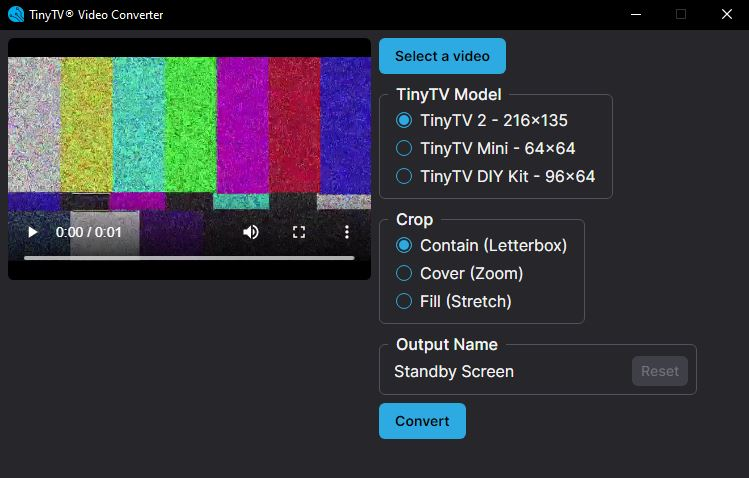
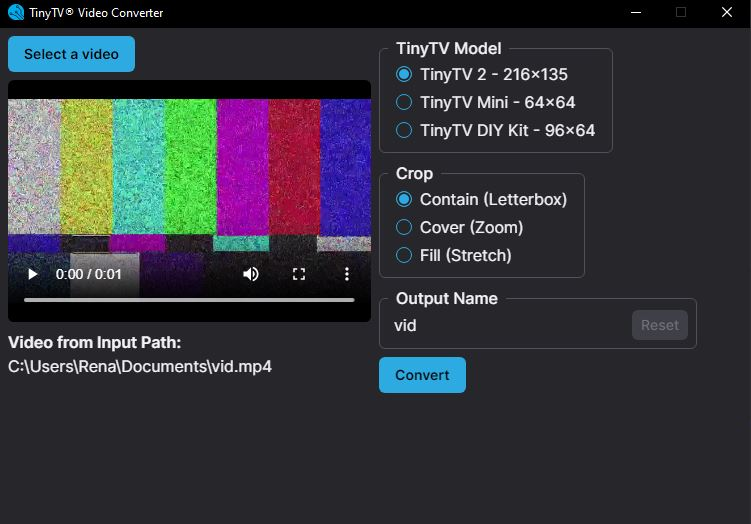
add application updates

diff --git a/docs/TinyTV-Converter-App.md b/docs/TinyTV-Converter-App.md
@@ -11,33 +11,25 @@ hide:
 </center>
 
 
-_Note: If you are looking to convert videos to load onto the <a href="https://tinycircuits.com/products/tinytv-diy-kit" target="_blank" alt="TinyTV Kit product page">**TinyTV DIY Kit**</a>, <a href="https://tinycircuits.com/products/tinyarcade" target="_blank" alt="Tiny Arcade Kit product page">**Tiny Arcade**</a> or <a href="https://tinycircuits.com/products/pocket-arcade" target="_blank" alt="Pocket Arcade Kit product page">**Pocket Arcade**</a>, please refer to the <a href="https://learn.tinycircuits.com/Kits/TSV-Converter-Tutorial/" target="_blank" alt="TinyCircuits TSV Converter tutorial">**TSV Converter**</a> application tutorial._
+_Note: If you are looking to convert videos to load onto the <a href="https://tinycircuits.com/products/tinytv-diy-kit" target="_blank" alt="TinyTV Kit product page">**TinyTV DIY Kit (shipped before Summer 2023)**</a>, <a href="https://tinycircuits.com/products/tinyarcade" target="_blank" alt="Tiny Arcade Kit product page">**Tiny Arcade**</a> or <a href="https://tinycircuits.com/products/pocket-arcade" target="_blank" alt="Pocket Arcade Kit product page">**Pocket Arcade**</a>, please refer to the <a href="../TinyTV-DIY-Kit/TSV-Converter-Tutorial/" target="_blank" alt="TinyCircuits TSV Converter tutorial">**TSV Converter**</a> application tutorial._
 
 The TinyTV Converter App is used to convert and crop videos for TinyCircuits TinyTV devices. Our TinyTVs are small and require specific video formats, so you will need to convert all videos you want on your TinyTV using the App from this tutorial.
 
+Jump to: 
 
-<center><img style="border:1px solid black;" width="60%" height="60%" src="../images/Converter-light-mode.JPG" /></center>
-
+* [**Windows Instructions**](#windows-instructions)
+* [**MacOS Instructions (Intel/Silicon)**](#macos-instructions-intelsilicon)
 
 ---
 
-## Downloading
+## Windows Instructions
+
 
 Press a compatible download link for your system:
 
-- <a href="https://files.tinycircuits.com/TinyTV%20Video%20Converter_0.1.1_x64_en-US.msi" download target="_blank" alt="Windows 64 bit Installer">**Windows 64 bit**</a>
-- <a href="https://files.tinycircuits.com/TinyTV%20Video%20Converter_0.1.1_x86_en-US.msi" download target="_blank" alt="Windows 32 bit Installer">**Windows 32 bit**</a>
-- <a href="https://files.tinycircuits.com/TinyTV%20Video%20Converter_0.1.1_x64.dmg" download target="_blank" alt="Mac Intel Installer">**MacOS**</a> _(Note: You must have MacOS version 10.13 or above to use this App. If you are unable to update, the <a href="https://learn.tinycircuits.com/Kits/TSV-Converter-Tutorial/" target="_blank" alt="TinyCircuits TSV Converter tutorial">**TSV Converter**</a> application may be compatible with your system to convert videos for the <a href="https://tinycircuits.com/products/tinytv-diy-kit" target="_blank" alt="TinyTV Kit product page">**TinyTV DIY Kit**</a>, <a href="https://tinycircuits.com/products/tinyarcade" target="_blank" alt="Tiny Arcade Kit product page">**Tiny Arcade**</a> and <a href="https://tinycircuits.com/products/pocket-arcade" target="_blank" alt="Pocket Arcade Kit product page">**Pocket Arcade**</a>.)_
 
-TinyTV Converter App version history:
-
-* Current: v0.1.1 - Updated to include support for TinyTV DIY Kit .avi conversion, TV Option renamed 
-  * Updated the application name to reflect trademark protection.
-  * Updated terminology to TV 'Model' instead of TV 'Option'.
-  * TinyTV name labels updated/fixed.
-  * TinyTV 2 is now the default selected option. 
-  * Removed empty space in app to make 
-* v0.1.0 - Initial version
+- <a href="https://files.tinycircuits.com/TinyTV%20Video%20Converter_0.1.2_x64_en-US.msi" download target="_blank" alt="Windows 64 bit Installer">**Windows 64 bit Download**</a>
+- <a href="https://files.tinycircuits.com/TinyTV%20Video%20Converter_0.1.2_x86_en-US.msi" download target="_blank" alt="Windows 32 bit Installer">**Windows 32 bit Download**</a>
 
 Not sure what download link works best for your Windows device? Try these steps:
 
@@ -53,23 +45,57 @@ To download the TinyTV Converter Application, it may help to use Google Chrome. 
 <center><img width="75%" height="75%" src="https://github.com/TinyCircuits/Wiki-Tutorials-Supporting-Files/raw/master/Utilities/TinyTV-App/Chrome-download-message.jpg" /></center>
 <center>_Screen capture of the 'Keep' option highlighted_</center>
 
-You will be prompted to agree to the license coupled with the software and then your computer should generate the application file. Windows users can move on to the <a href="/TinyTV-Converter-App/#open-the-app" alt="Open the app section of the tutorial">**next section**</a>.
+You will be prompted to agree to the software license the application is written under, and to confirm that you wish to download the application. Then, your device should generate the application file.
 
-Mac users must add the TinyTV Converter Application to the list of accepted Apps by navigating to the Applications folder, finding the TinyTV app, and then right click to open the option menus and press "Open" - press "Open" again on the security window that pops up:
+---
 
-<center><img width="75%" height="75%" src="https://github.com/TinyCircuits/Wiki-Tutorials-Supporting-Files/raw/master/Utilities/TinyTV-App/Mac-double-open-menus.jpg"/></center>
+## MacOS Instructions (Intel/Silicon)
+
+- <a href="https://files.tinycircuits.com/TinyTV%20Video%20Converter_0.1.2_x64.dmg" download target="_blank" alt="Mac Intel Installer">**MacOS Download**</a> _(Note: You must have MacOS version 10.13 or above to use this App. If you are unable to update, the <a href="https://learn.tinycircuits.com/Kits/TSV-Converter-Tutorial/" target="_blank" alt="TinyCircuits TSV Converter tutorial">**TSV Converter**</a> application may be compatible with your system to convert videos for the <a href="https://tinycircuits.com/products/tinytv-diy-kit" target="_blank" alt="TinyTV Kit product page">**TinyTV DIY Kit**</a>, <a href="https://tinycircuits.com/products/tinyarcade" target="_blank" alt="Tiny Arcade Kit product page">**Tiny Arcade**</a> and <a href="https://tinycircuits.com/products/pocket-arcade" target="_blank" alt="Pocket Arcade Kit product page">**Pocket Arcade**</a>.)_
+
+
+To download the TinyTV Converter Application, it may help to use Google Chrome. Press the above download link, choose a location for the installer file, and then select 'Keep' from the option arrow found on the chrome download pop-up at the bottom of your browser window:
+
+<center><img width="75%" height="75%" src="https://github.com/TinyCircuits/Wiki-Tutorials-Supporting-Files/raw/master/Utilities/TinyTV-App/Chrome-download-message.jpg" /></center>
 <center>_Screen capture of the 'Keep' option highlighted_</center>
+
+You will be prompted to agree to the software license the application is written under, and to confirm that you wish to download the application. Then, your device should generate the application file.
+
+<center>
+<img width="75%" height="75%" src="../images/Mac-License-Agreement.jpg" alt="TinyTV application license window screenshot" />
+</center>
+<center>*License Agreement Window*</center>
+
+
+---
+
+### Mac (M1 and M2) Accessory Approval
+
+The silicon processors available in MacOS devices starting in November 2020 have an additional USB device security protocol that you must accept when connecting your TinyTV in order to place converted videos into the TinyTV's memory. When plugging in a USB device, you may see this pop-up window:
+
+<center><img width="40%" height="40%" src="../images/Mac-USB-Accessory.png"/></center>
+<center>_Screen capture of the 'Open' option highlighted_</center>
+
+
+Please review <a href="https://support.apple.com/lt-lt/guide/mac-help/mchlf779ae93/mac" target="_blank" alt="">**Mac's publication on allowing accessories to connect to Mac**</a> to learn how to approve USB device accessories.
+
+
 
 ---
 
 ## Open the Application
+
+Once you have downloaded the correct application version for your system, you can start converting videos!
 
 <center><img width="60%" height="60%" src="../images/Converter-dark-opening-button.JPG" /></center>
 <center>_Note: The application is available in light and dark mode and will be set automatically based on your system settings. Shown here is the dark mode version of the app._</center>
 
 Press the button to select a video you wish to convert.
 
-Once you have selected the video file you want to convert to put on the TV, the app will open to the main screen. On the left side of the app, the video you selected is playable and viewable - note that this feature is not available for all video types or video ratios. For best compatibility, use .mp4 type videos.
+Once you have selected the video file you want to convert to put on the TV, the app will open to the main screen. On the left side of the app, the video you selected is playable and viewable - note that this feature is not available for all video types or video ratios, you will need your video to have an .MP4 extension to be compatible with the TinyTV application. If you have a video in a different format, you can use video editing software to export it as an .MP4, or you can use a free in-browser tool like <a href="https://cloudconvert.com/video-converter" alt="Cloud Convert browser tool for converting video types">**CloudConvert**</a>. Once you have an .MP4, you should be able to select it from the app!
+
+<center><img style="border:1px solid black;" width="60%" height="60%" src="../images/Converter-light-mode.JPG" /></center>
+<center>*Light Mode Version*</center>
 
 ---
 
@@ -85,24 +111,18 @@ Select the TinyTV Model compatible with your hardware. Please note that the vide
 
 To customize the appearance of your video, you can select any of the 3 crop options: Contain, Cover, or Fill. The selected crop option will change the appearance of the video player to depict the resulting video format.
 
-<center><img width="50%" height="50%" src="../images/Converter-Contain.JPG" /></center>
-<center>_Contain_</center>
+<center><img width="50%" height="50%" src="../images/Crop-settings.jpg" /></center>
+<center>_Contain, Cover, Fill_</center>
 
-<p></p>
+Keep in mind, the crop settings are applied based on the TV Model. For example, the crop setting *Fill (Stretch)* on the TinyTV Mini that has a 1:1 video ratio with 64x64 pixels will not display as stretched due to the size and video ratio limitations. To see how the input video will appear with the different crop settings, we recommend converting your video with the different crop settings so that you can see how they are affected. 
 
-<center><img width="50%" height="50%" src="../images/Converter-cover.JPG" /></center>
-<center>_Cover_</center>
-
-<p></p>
-
-<center><img width="50%" height="75%" src="../images/Converter-Fill.JPG" /></center>
-<center>_Fill_</center>
+*Note: The preview of the crop settings in the application window will give you an idea of how the different settings effect the resulting video, but the preview is an estimate rather than a guaranteed visual.*
 
 ---
 
 ## Output Name
 
-Choose a short and meaningful title for your TinyTV video. Note that special characters and titles longer than 50 characters are not compatible with the TV firmware. Remove any special characters in the title before placing the video on your TinyTV by sticking to a-b letters and 0-9 numbers.
+Choose a short and meaningful title for your TinyTV video. Note that special characters and titles longer than 50 characters are not compatible with the TV firmware. Remove any special characters in the title before placing the video on your TinyTV by sticking to a-z letters and 0-9 numbers.
 
 ---
 
@@ -110,28 +130,25 @@ Choose a short and meaningful title for your TinyTV video. Note that special cha
 
 Press the convert button once all of the above selections and title look good. A save dialog window will direct you to save your file.
 
-DIY TinyTV Kit 96x64:
+**DIY TinyTV Kit 96x64**:
 
 - Place converted videos on the USB Drive of the SD Card you have plugged into your computer. Eject the USB drive before removing it from your computer to avoid file corruption.
 
-TinyTV 2 and TinyTV Mini:
+**TinyTV 2 and TinyTV Mini**:
 
 -  These TinyTVs have a USB Mode that will make your TinyTV appear on your computer just like an external drive, either in your Folder Explorer (Windows) or on your desktop/Finder Application (Mac). You can select the TinyTV device directory when converting videos to save the videos directly to your TinyTV's storage. To enter USB Mode:
 
     - <ins>Current TinyTV Software</ins>: turn your TV on and connect it to your computer with a USB-C cable, after a few seconds the directory of the TinyTV should appear.
-    - <ins>Pre-Kickstarter TinyTV 2 Software (<a href="TODO" target="_blank" alt="TinyTV firmware updated tool">**Update Software Here**</a>)</ins>: Plug the TinyTV 2 into your computer. Turn off the TinyTV with the top power button while holding the button in for 5 seconds. After 5 seconds, release the button and then press it once. The USB drive will appear in your file explorer (Windows), or as a drive on your home screen (Mac):
+    - <ins>Do you have a TinyTV with different software?</ins> - <a href="https://tinytv.us/Update/" target="_blank" alt="TinyTV firmware updated tool">**Update Software Here**</a>
 
-You can plug the TV into your computer and you can save your converted videos directly to the USB Drive directory.
+You can plug the TV into your computer and you can save your converted videos directly to the USB Drive directory that will appear when the TinyTV is connected to your computer with a USB-C cable while powered on. 
 
-that will appear when the TinyTV is connected to your computer with a USB-C cable while powered on. 
-
-<center><img width="75%" height="75%" src="https://github.com/TinyCircuits/Wiki-Tutorials-Supporting-Files/raw/master/Utilities/TinyTV-App/App-main-screen-USB-drive-Mac.jpg" /></center>
-<center>_Your TinyTV USB drive may show up as "untitled"_</center>
+_Note: Your TinyTV USB drive may show up as "Untitled"_
 
 Don't forget to eject your TinyTV USB drive once you are done adding videos!
 
 <center><img width="50%" height="50%" src="https://github.com/TinyCircuits/Wiki-Tutorials-Supporting-Files/raw/master/Utilities/TinyTV-App/Mac-eject-USB.jpg" /></center>
-<center>_To eject the TinyTV USB drive, right click or double press to view the options menu and select the "Eject" option_</center>
+<center>_To eject the TinyTV USB drive on MacOS, right click or double press to view the options menu and select the "Eject" option_</center>
 
 ---
 
@@ -143,18 +160,31 @@ You can use a USB power cable to connect your TinyTV to your computer or another
 
 ## Troubleshooting
 
+- **"I'm getting an error on my Mac device about allowing the accessory to connect?"** - Please review the <a href="#mac-m1-and-m2-accessory-approval" alt="">**M1 and M2 Mac-users section**</a> to remedy the error.
 - **"My app appears frozen while I am converting a video"** - Don't worry, this is completely normal. Your video is being converted by the TinyTV app and while it may look like the app is frozen, it's just working hard!
 - If the TinyTV 2 or TinyTV Mini USB device does not appear on your computer - your USB-C cable may not have the necessary data connections required for transferring data. Try using other USB-C cables.
 - If you cannot see the resulting converted video, refresh your file explorer in the directory you saved the file. _Try pressing the convert button again if the video is not present._
 - Do not use the same title for converted videos repeatedly in the same file location. The file will not be overwritten correctly and only the first video with the title will be saved. Change the title each time you press the convert button to avoid errors or losing video data.
 
+
 ---
 
-<center>
-## Contact Us
-</center>
+## TinyTV Converter App version history:
 
-If you have any questions or feedback, feel free to email us or make a post on our <a href="http://forum.tinycircuits.com/index.php" target="_blank" alt="TinyCircuits Forum">**forum**</a>. Show us what you make by tagging @TinyCircuits on Instagram, Twitter, or Facebook so we can feature it.
+* v0.1.2 
+    * Added video file path for debugging. 
+    * Signed and notarized MacOS version of application to remove downloading issues.
+    * Moved 'Select a Video' button.
+* v0.1.1 
+    * Updated to include support for TinyTV DIY Kit .AVI conversion.
+    * Updated the application name to reflect trademark protection.
+    * Updated terminology to TV 'Model' instead of TV 'Option'.
+    * TinyTV name labels updated/fixed.
+    * TinyTV 2 is now the default selected option. 
+    * Removed empty space in app.
+* v0.1.0 Initial version with limited .TSV conversion functionality.
+
+---
 
 
 <center><p>Thanks for supporting TinyCircuits!</p></center>

diff --git a/docs/TinyTV-DIY-Kit/TSV-Converter-Tutorial.md b/docs/TinyTV-DIY-Kit/TSV-Converter-Tutorial.md
@@ -3,11 +3,11 @@
 
 <center><img width="50%" height="50%" src="https://github.com/TinyCircuits/Wiki-Tutorials-Supporting-Files/raw/master/Utilities/TSVConverter-Tutorial/images/TSVConverter-Tutorial-Image-01.jpg" /></center>
 
-.TSV (TinyScreen Video) is a file format used to play video on our TinyScreen products, including the TinyTV DIY Kit, our TinyScreen+, the Tiny Arcade, and Pocket Arcade. This page will cover how to use the Windows and MacOS program to convert any common video format to a .TSV file. It will also demonstrate how to play .TSV files on your TinyScreen+ with the <a href="https://tinycircuits.com/collections/memory/products/microsd-tinyshield" target="_blank" alt="micro SD TinyShield Product Page">**Micro SD TinyShield**</a>.
+.TSV (TinyScreen Video) is a file format used to play video on our TinyScreen products, including the TinyTV DIY Kit, our TinyScreen+, the Tiny Arcade, and Pocket Arcade. This page will cover how to use the Windows and MacOS program to convert a video file to a .TSV file. It will also demonstrate how to play .TSV files on your TinyScreen+ with the <a href="https://tinycircuits.com/collections/memory/products/microsd-tinyshield" target="_blank" alt="micro SD TinyShield Product Page">**Micro SD TinyShield**</a>.
 
 _For more information on how to load .TSV files to your Tiny Arcade, please refer to the <a href="https://learn.tinycircuits.com/Help/Load-Games-and-Video-to-SD-Tutorial/" target="_blank" alt="How to Load TinyArcade Games & Videos onto an SD Card Tutorial">**How to Load Tiny Arcade Games & Videos onto an SD Card**</a> tutorial._
 
-<center><a href="../../TinyTV-Converter-App/" alt="TinyTV Converter app tutorial and download page">_If you have a Kickstarter/Indiegogo TinyTV 2 or TinyTV Mini, please navigate to the  tutorial and download page for the TinyTV converter application that will be compatible with the new hardware._</a></center>
+<center><a href="../../TinyTV-Converter-App/" alt="TinyTV Converter app tutorial and download page">_Note: If you have a TinyTV 2 or TinyTV Mini, please navigate to the tutorial and download page for the TinyTV Converter Application that is compatible with the hardware._</a> Additionally, if you have difficulties downloading or using the TSV Converter with the TinyTV DIY Kit, please update the TinyTV DIY Kit code with the <a href="../../Update/" alt="">**Update Tool**</a> to be compatible with the <a href="../../TinyTV-Converter-App/" alt="TinyTV Converter app tutorial and download page">**newest app version**</a>.</center> 
 
 ---
 

diff --git a/docs/Mac-USB.md b/docs/Mac-USB.md
@@ -1,0 +1,1 @@
+https://support.apple.com/lt-lt/guide/mac-help/mchlf779ae93/mac
